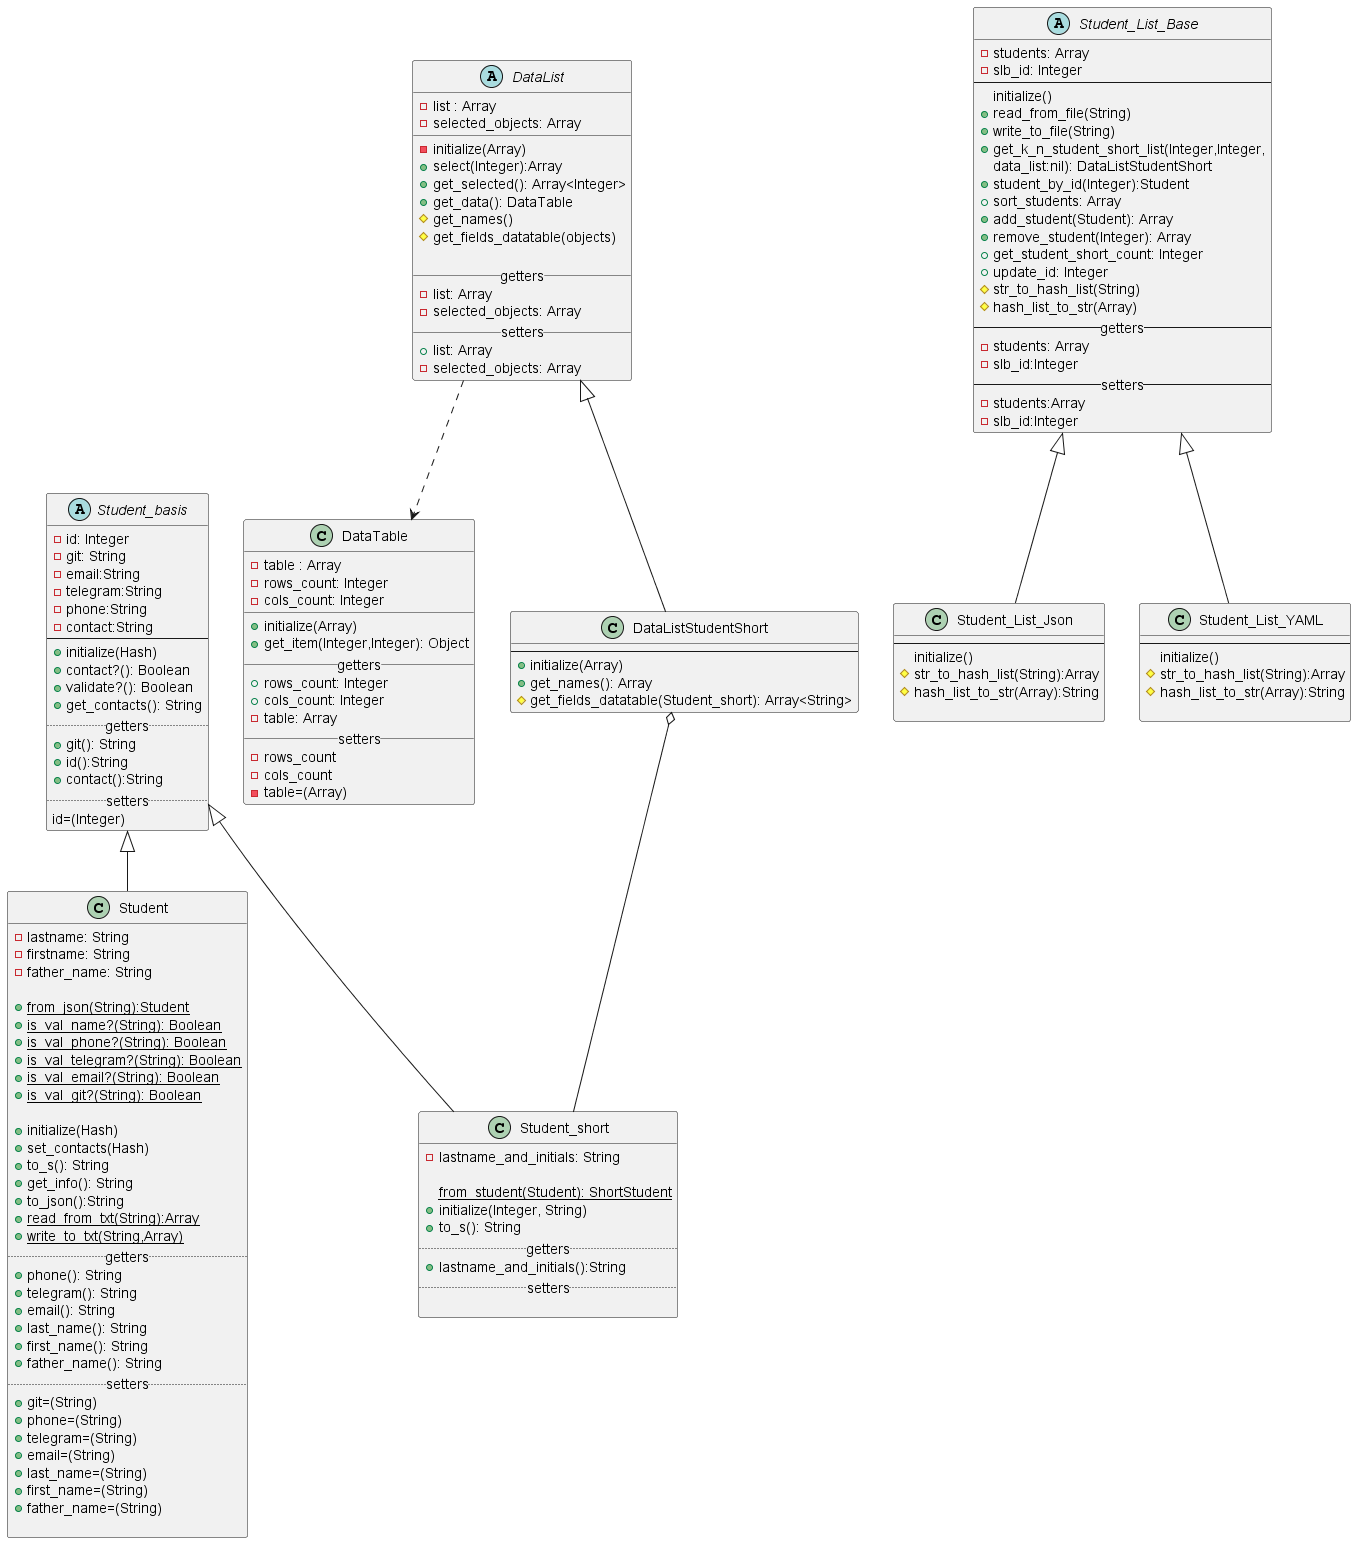
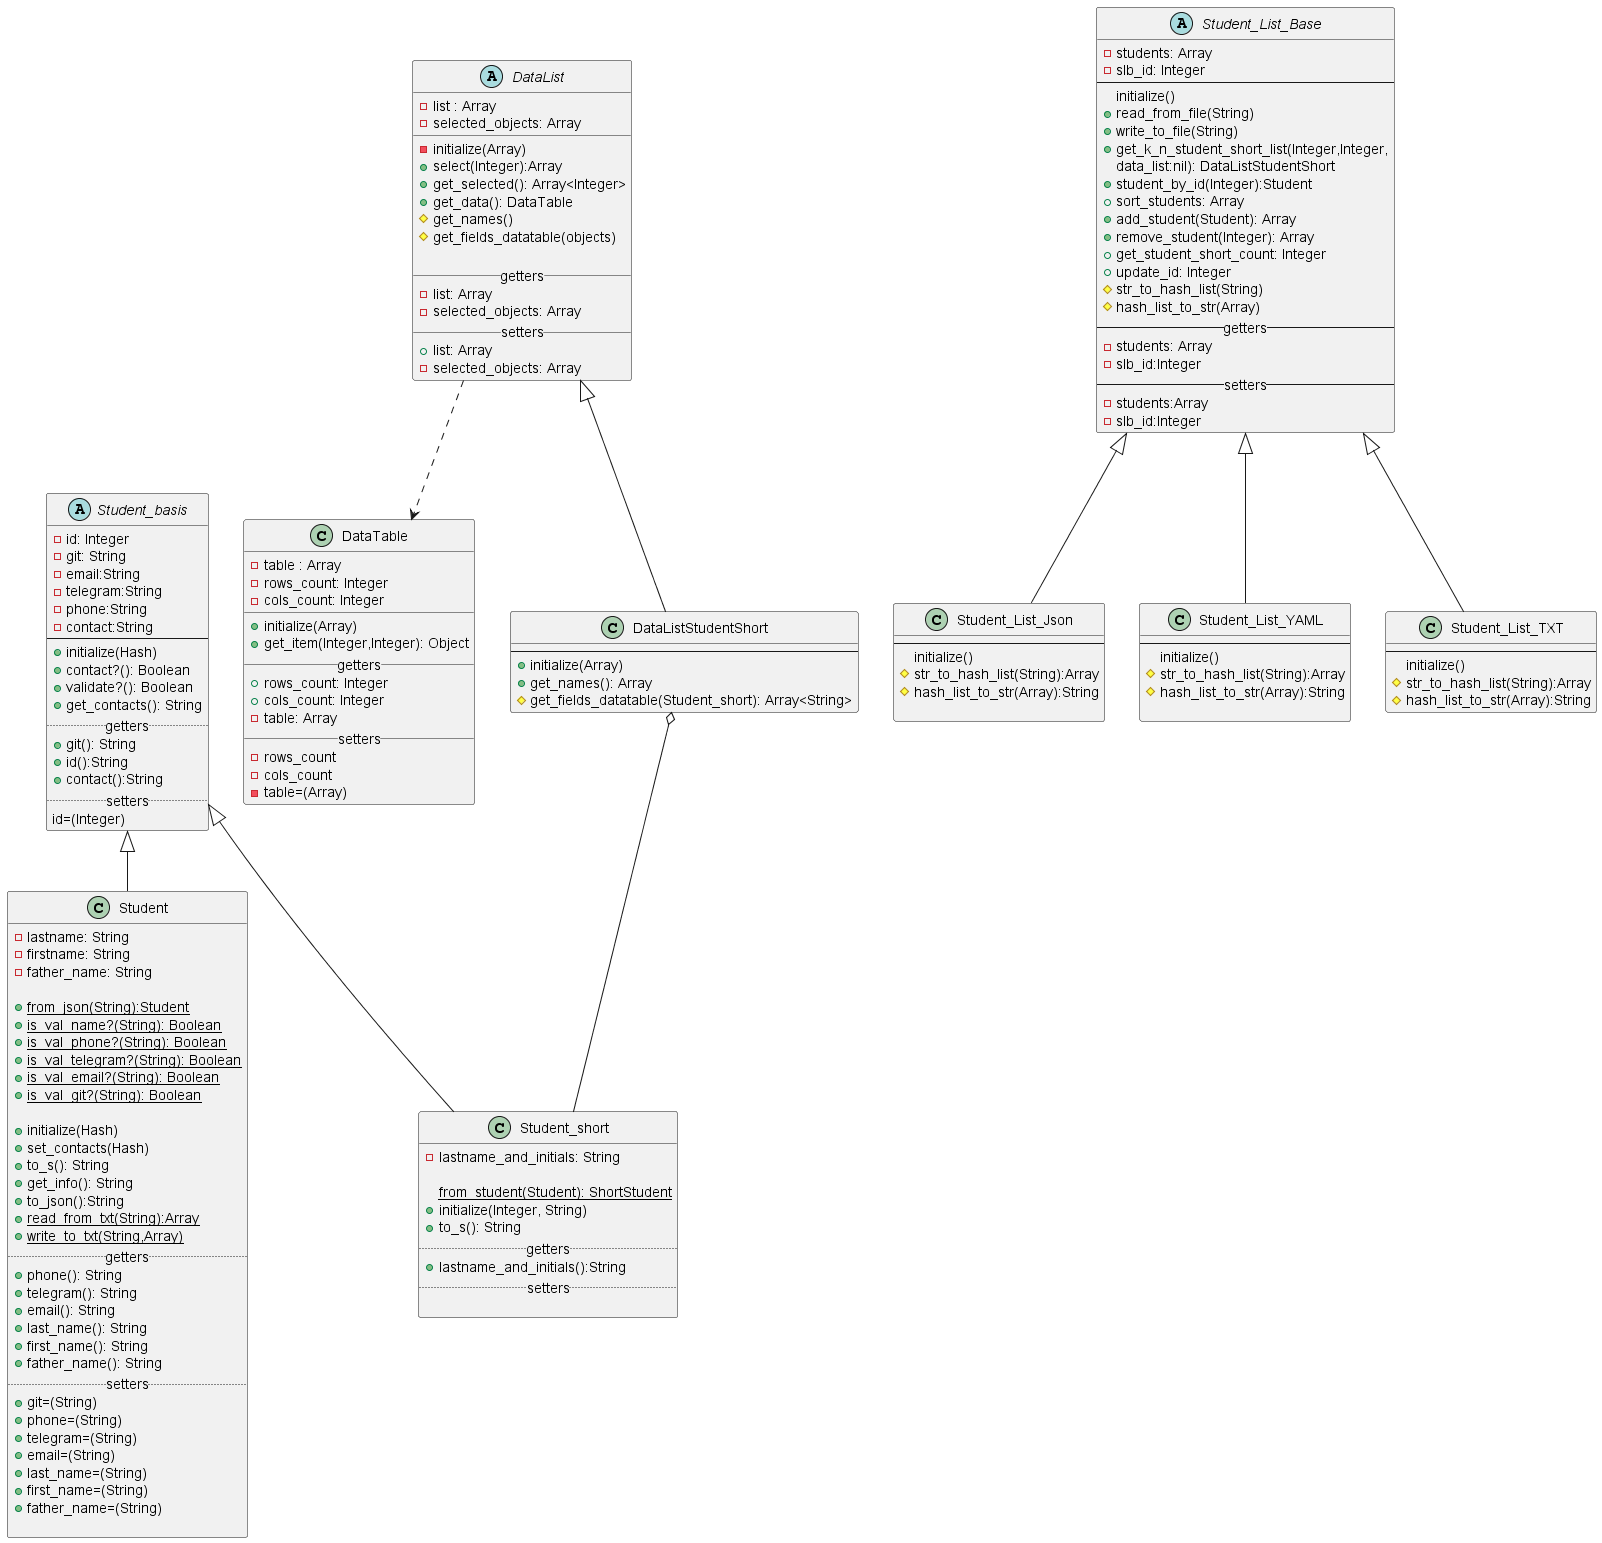
реализован класс student_list_txt

diff --git a/lab2/main.rb b/lab2/main.rb
@@ -5,6 +5,7 @@ require_relative 'data_list_student_short'
 require_relative 'data_list'
 require_relative 'student_list_json'
 require_relative 'students_list_YAML'
+require_relative 'student_list_txt'
 require 'json'
 
 student_1 = Student.new(lastname: 'Минаков ',firstname: 'Владислав',father_name: 'Андреевич', id: 1,git:"ColdEiler", phone:'79667665060')
@@ -57,7 +58,7 @@ st_list_json.add_student(student_3)
 st_list_json.write_to_file('./lab2/students.json')
 st_list_json.read_from_file('./lab2/students.json')
 
-puts "Read and write #{st_list_json.get_student_short_count} students!!!"
+puts "Read and write #{st_list_json.get_student_short_count} students json!!!"
 
 st_list_yaml = Student_List_YAML.new
 st_list_yaml.add_student(student_1)
@@ -67,4 +68,14 @@ st_list_yaml.add_student(student_3)
 st_list_yaml.write_to_file('./lab2/students.yaml')
 st_list_yaml.read_from_file('./lab2/students.yaml')
 
-puts "Read and write #{st_list_yaml.get_student_short_count} students"
+puts "Read and write #{st_list_yaml.get_student_short_count} students yaml"
+
+st_list_txt = Student_List_TXT.new
+st_list_txt.add_student(student_1)
+st_list_txt.add_student(student_2)
+st_list_txt.add_student(student_3)
+
+st_list_txt.write_to_file('./lab2/students.txt')
+st_list_txt.read_from_file('./lab2/students.txt')
+
+puts "Read and write #{st_list_txt.get_student_short_count} students txt"

diff --git a/lab2/student_list_txt.rb b/lab2/student_list_txt.rb
@@ -1,0 +1,27 @@
+require_relative 'Student_list_Base.rb'
+require 'json'
+class Student_List_TXT<Student_List_Base
+  public_class_method :new
+
+  protected
+  def str_to_hash_list(str)
+    hash_list=[]
+    str.each_line do |x|
+      hash={}
+      x.split(',').each do |pair|
+        key,value = pair.split(':',2).map(&:strip)
+        hash[key.to_sym] = value
+        end
+      hash_list<<hash
+    end
+    hash_list
+  end
+
+  def hash_list_to_str(hash_list)
+    str = hash_list.map do
+      |hash| hash.map{|key,value| "#{key}:#{value}"}.join(',')
+    end
+    str.join("\n")
+  end
+
+end
